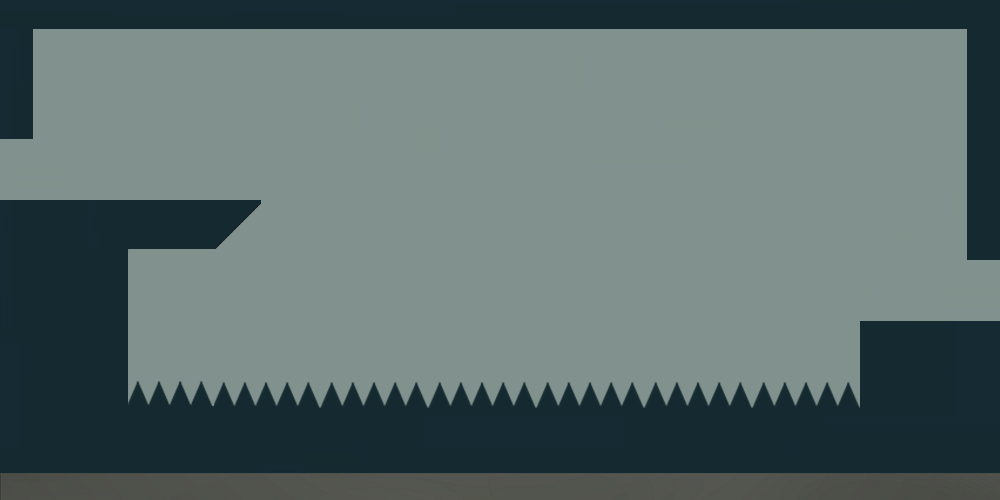
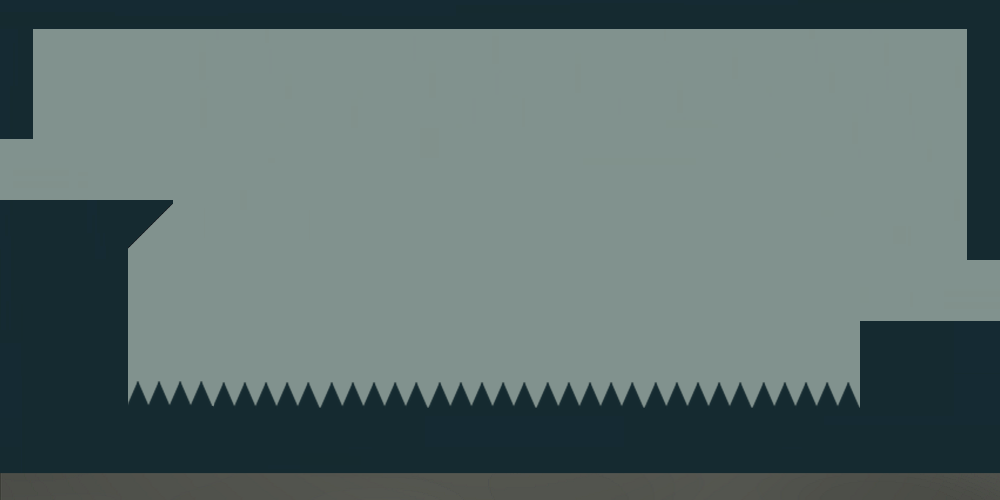
level 4 completed
collision test and brick movement added

Changed region(s): [[0.124, 0.39, 0.279, 0.51]]

diff --git a/level_4.py b/level_4.py
@@ -34,12 +34,13 @@ def create_world():
     game.flying = 0
     game.x, game.y = 950, 196
     game.min_x, game.max_x = 0, 1000
-    # game.min_wall, game.max_wall = 40, 40
+    game.min_wall, game.max_wall = 0, 40
     game.jump_x, game.jump_y = 10, 20
     game.gck, game.gak = 90, 270
 
     # class initialize
     jumper.x, jumper.y = 950, 196
+    jumper.life = 1
     jumper.state = Jumper.STANDLEFT
     spike.x, spike.y = 495, 110
     spike.box_x, spike.box_y = 365, 10
@@ -104,14 +105,14 @@ def handle_events(frame_time):
 
 
 def update(frame_time):
-    jumper.life = 1
     # update ----------------------------------
     jumper.update(frame_time)
     brick.update(frame_time)
     logic(frame_time)
     height(frame_time)
+    wall(frame_time)
     collision(frame_time)
-    # change_level(frame_time)
+    change_level(frame_time)
     # -----------------------------------------
     update_canvas()
 
@@ -125,11 +126,11 @@ def draw(frame_time):
     jumper.draw()
     text(frame_time)
     # draw bounding box -----------------------
-    jumper.draw_bb()
-    spike.draw_bb()
-    brick.draw_bb_1()
-    brick.draw_bb_2()
-    brick.draw_bb_3()
+    # jumper.draw_bb()
+    # spike.draw_bb()
+    # brick.draw_bb_1()
+    # brick.draw_bb_2()
+    # brick.draw_bb_3()
     # -----------------------------------------
     update_canvas()
 
@@ -138,8 +139,10 @@ def draw(frame_time):
 
 def logic(frame_time):
     if jumper.x < 865 and jumper.y == 196 \
-            or jumper.x > 260 and jumper.y == 317\
-            or (jumper.x < brick.x_1 - 50 or jumper.x > brick.x_1 + 50) and jumper.y == brick.y_1 + 28:
+            or jumper.x >= 170 and jumper.y == 317\
+            or (jumper.x <= brick.x_1 - 50 or jumper.x >= brick.x_1 + 50) and jumper.y == brick.y_1 + 27 \
+            or (jumper.x <= brick.x_2 - 50 or jumper.x >= brick.x_2 + 50) and jumper.y == brick.y_2 + 27 \
+            or (jumper.x <= brick.x_3 - 50 or jumper.x >= brick.x_3 + 50) and jumper.y == brick.y_3 + 27:
         if jumper.state == Jumper.RUNRIGHT:
             jumper.state = Jumper.STANDRIGHT
             game.jumping = 1
@@ -149,8 +152,6 @@ def logic(frame_time):
             jumper.state = Jumper.STANDLEFT
             game.jumping = 1
             jumper.state = Jumper.JUMPLEFT
-
-    # print(jumper.y, brick.y_1 + 28)
 
     if jumper.x >= brick.x_1 - 50:
         if jumper.x <= brick.x_1 + 50:
@@ -170,6 +171,23 @@ def logic(frame_time):
                 jumper.y = brick.y_3 + 28
                 jumper.x -= brick.move_3
 
+    if jumper.state == Jumper.JUMPRIGHT:
+        if jumper.y <= brick.y_2 + 28:
+            game.gck = 90
+        else:
+            game.gck = 120
+
+
+# -----------------------------------------------------------------------------------
+
+
+def wall(frame_time):
+    if jumper.x < 950:
+        game.max_wall = 40
+
+    if jumper.x >= 950:
+        game.max_wall = 0
+
 # -----------------------------------------------------------------------------------
 
 
@@ -177,12 +195,16 @@ def height(frame_time):
     if jumper.x > 865:
         game.wall = 0
 
-    if jumper.x < 260:
+    if jumper.x < 170:
         game.wall = 317 - game.y
 
-    if jumper.x > 260:
-        if jumper.x < 865:
-            game.wall = -55
+    if jumper.x >= 170 and jumper.x <= brick.x_3 + 50 \
+            or jumper.x >= brick.x_3 - 50 and jumper.x <= brick.x_2 + 50 \
+            or jumper.x >= brick.x_2 - 50 and jumper.x <= brick.x_1 + 50\
+            or jumper.x >= brick.x_1 - 50 and jumper.x <= 865:
+                game.wall = -54
+                jumper.y -= 1
+
 
 # -----------------------------------------------------------------------------------
 
@@ -213,10 +235,10 @@ def change_level(frame_time):
         game.x = 980
         game.change_level = True
         game.motion = True
-        framework.push_state(level_3)
+        framework.push_state(level_5)
 
     if jumper.x >= game.max_x:
-        framework.push_state(level_5)
+        framework.push_state(level_3)
 
 
 # -----------------------------------------------------------------------------------

diff --git a/platform.py b/platform.py
@@ -98,9 +98,9 @@ class P5:
 
 class Brick:
     def __init__(self):
-        self.x_1, self.y_1 = 750, 200
-        self.x_2, self.y_2 = 600, 250
-        self.x_3, self.y_3 = 450, 300
+        self.x_1, self.y_1 = 750, 160
+        self.x_2, self.y_2 = 600, 220
+        self.x_3, self.y_3 = 350, 280
         self.dir_1, self.dir_2, self.dir_3 = 1, 1, 1
         self.move_1, self.move_2, self.move_3 = 1, 1, 1
         self.brick_1 = load_image('brick.png')
@@ -109,8 +109,8 @@ class Brick:
 
     def update(self, frame_time):
         self.move_1 = 2 * self.dir_1
-        self.move_2 = 2 * self.dir_2
-        self.move_3 = 2 * self.dir_3
+        self.move_2 = 3 * self.dir_2
+        self.move_3 = 4 * self.dir_3
 
         self.x_1 -= self.move_1
         self.x_2 -= self.move_2
@@ -122,16 +122,16 @@ class Brick:
         elif self.x_1 <= 650:
             self.dir_1 *= -1
 
-        if self.x_2 >= 650:
+        if self.x_2 >= 600:
             self.dir_2 *= -1
 
-        elif self.x_2 <= 550:
+        elif self.x_2 <= 450:
             self.dir_2 *= -1
 
-        if self.x_3 >= 450:
+        if self.x_3 >= 350:
             self.dir_3 *= -1
 
-        elif self.x_3 <= 350:
+        elif self.x_3 <= 250:
             self.dir_3 *= -1
 
     def draw(self):

diff --git a/jumper.py b/jumper.py
@@ -91,6 +91,7 @@ class Jumper:
                 game.jumping = 0
                 game.movement = 0
                 game.flying = 0
+
                 if self.life == 1:
                     self.y = game.y + game.wall
 
